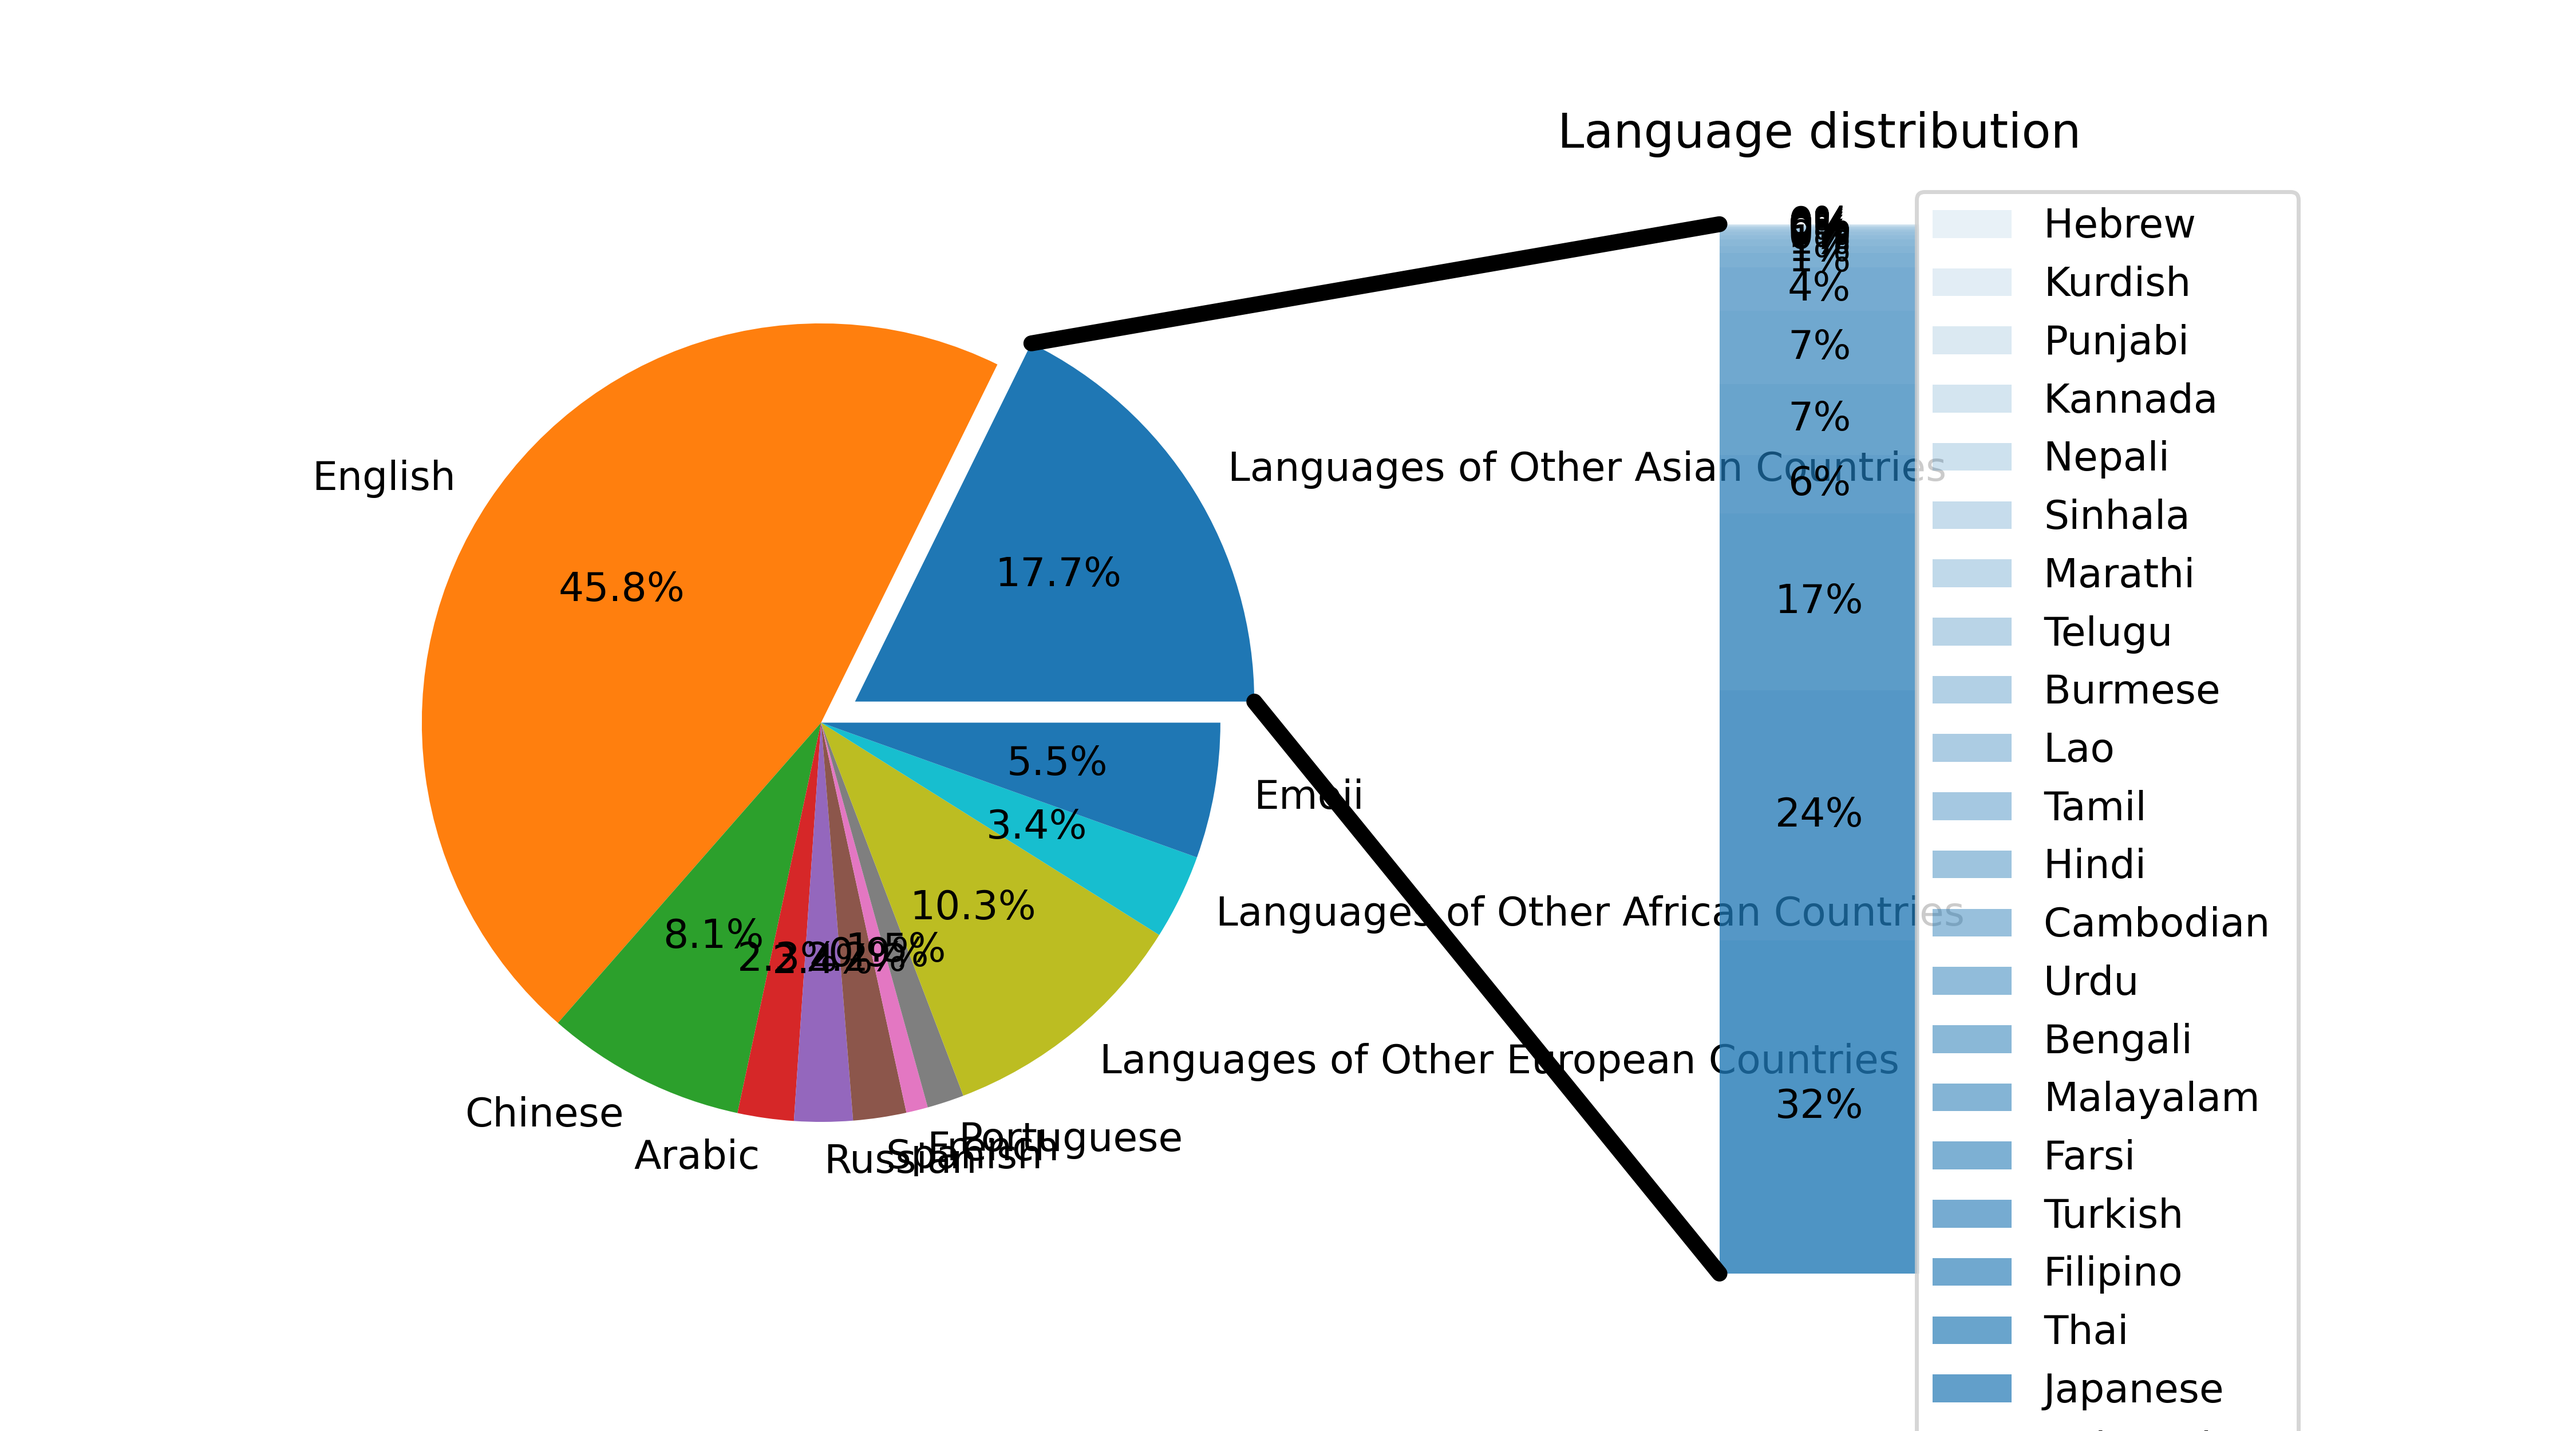
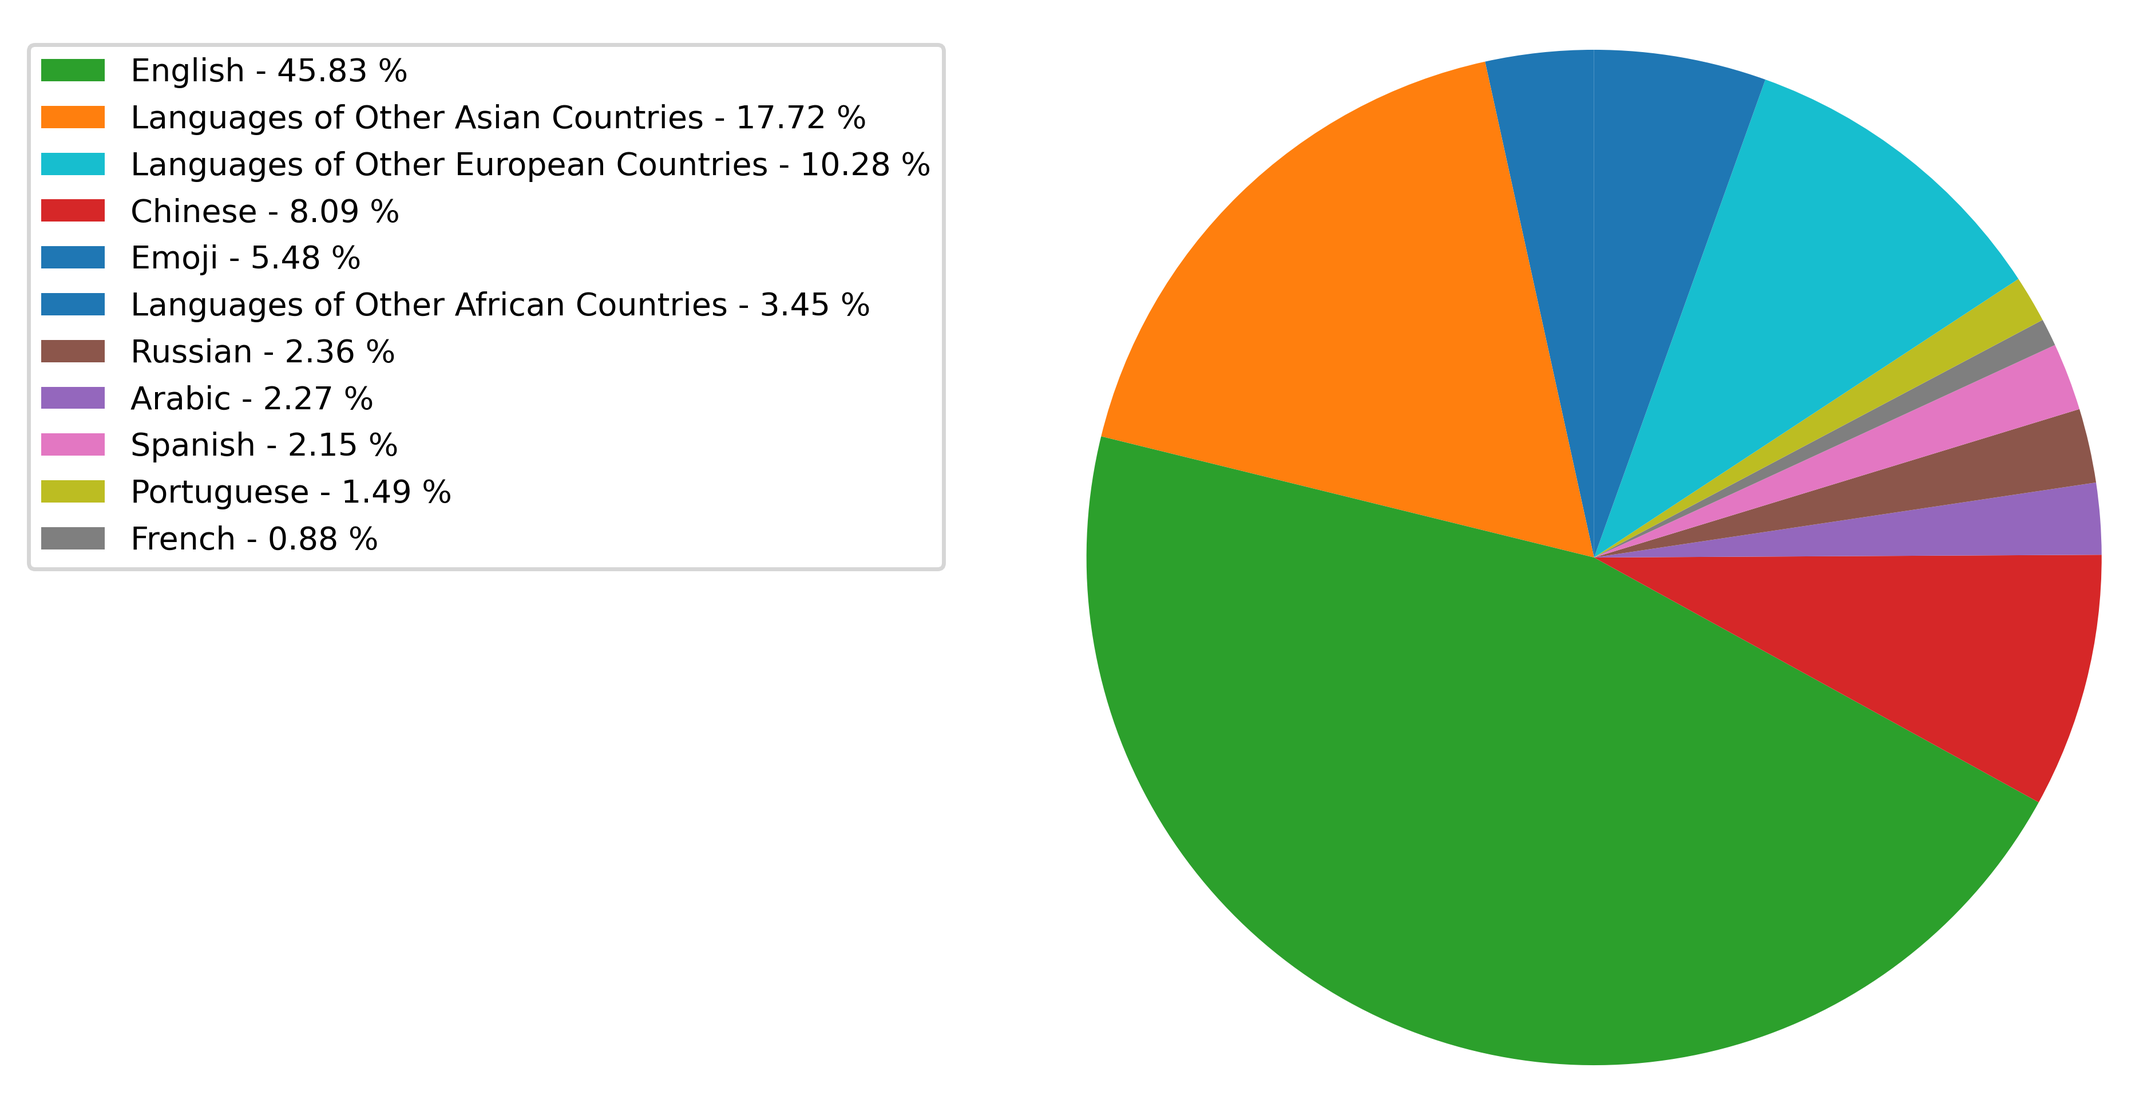
modified:   Language distribution.png 	modified:   draw_pie.py

diff --git a/draw_pie.py b/draw_pie.py
@@ -1,10 +1,33 @@
 import pandas as pd
 import matplotlib.pyplot as plt
 from matplotlib.patches import ConnectionPatch
+import seaborn as sns
 import numpy as np
 
+from language import language_area_analysis
 
-def draw_pie_title(data: list, labels: list, explode: list, bar_ratios: list, bar_labels: list, name: str) -> plt.pie:
+
+def draw_pie_title(data: list, label: list, name: str) -> plt.pie:
+    # plt.figure(figsize=(15,8))
+    # patches, texts, autotexts = plt.pie(data, labels, autopct='%1.2f%%', pctdistance=0.7, textprops={'fontsize': 10})
+    # for autotext in autotexts:
+    #     autotext.set_horizontalalignment('center')
+    #     autotext.set_fontstyle('italic')
+    # plt.title(name, fontdict={"fontsize": 16}, pad=20)
+    # plt.savefig(name + ".png", dpi=500)
+
+    porcent = [100*i/sum(data) for i in data]
+    colors = sns.color_palette()
+    patches, texts = plt.pie(data, startangle=90, radius=1.2, colors=colors)
+    labels = ['{0} - {1:1.2f} %'.format(i, j) for i,  j in zip(label, porcent)]
+    sort_legend = True
+    if sort_legend:
+        patches, labels, dummy = zip(*sorted(zip(patches, labels, data), key=lambda x: x[2], reverse=True))
+    plt.legend(patches, labels, loc='best', bbox_to_anchor=(-0.1, 1.), fontsize=8)
+    plt.savefig(name + ".png", bbox_inches='tight', dpi=500)
+
+
+def draw_pie_bar_title(data: list, labels: list, explode: list, bar_ratios: list, bar_labels: list, name: str) -> plt.pie:
     # make figure and assign axis objects
     fig, (ax1, ax2) = plt.subplots(1, 2, figsize=(9, 5))
     fig.subplots_adjust(wspace=0)
@@ -50,13 +73,15 @@ def draw_pie_title(data: list, labels: list, explode: list, bar_ratios: list, ba
     plt.savefig(name + ".png", dpi=500)
 
 
-data = [15692, 40582, 7168, 2014, 2092, 1905, 777, 1321, 9102, 3051, 4852]
-labels = ['Languages of Other Asian Countries', 'English', 'Chinese', 'Arabic', 'Russian', 'Spanish', 'French', 'Portuguese', 'Languages of Other European Countries', 'Languages of Other African Countries', 'Emoji']
-explode = [0.1, 0, 0, 0, 0, 0, 0, 0, 0, 0, 0]
-df = pd.read_csv('Language.csv')
-df = df.loc[df['地区'] == 'Languages of Other Asian Countries']
-bar_ratios = df['count'].to_list()
-bar_ratios = [i/sum(bar_ratios) for i in bar_ratios]
-bar_labels = df['Language'].to_list()
-draw_pie_title(data=data, labels=labels, explode=explode, bar_ratios=bar_ratios, bar_labels=bar_labels, name='Language distribution')
-print(bar_ratios, bar_labels)
+data = [3051, 15692, 40582, 7168, 2014, 2092, 1905, 777, 1321, 9102, 4852]
+labels = ['Languages of Other African Countries', 'Languages of Other Asian Countries', 'English', 'Chinese', 'Arabic', 'Russian', 'Spanish', 'French', 'Portuguese', 'Languages of Other European Countries', 'Emoji']
+# explode = [0.1, 0, 0, 0, 0, 0, 0, 0, 0, 0, 0]
+# df = pd.read_csv('Language.csv')
+# df = df.loc[df['地区'] == 'Languages of Other African Countries']
+# bar_ratios = df['count'].to_list()
+# bar_ratios = [i/sum(bar_ratios) for i in bar_ratios]
+# bar_labels = df['Language'].to_list()
+# draw_pie_title(data=data, labels=labels, explode=explode, bar_ratios=bar_ratios, bar_labels=bar_labels, name='Language distribution')
+# print(bar_ratios, bar_labels)
+
+draw_pie_title(data=data, label=labels, name='Language distribution')
